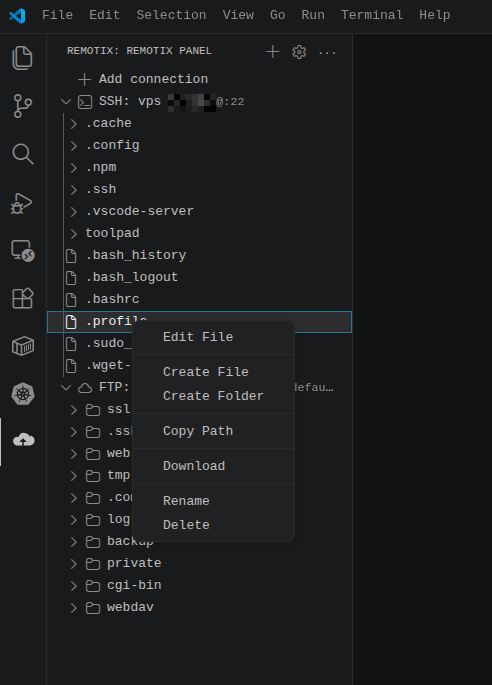
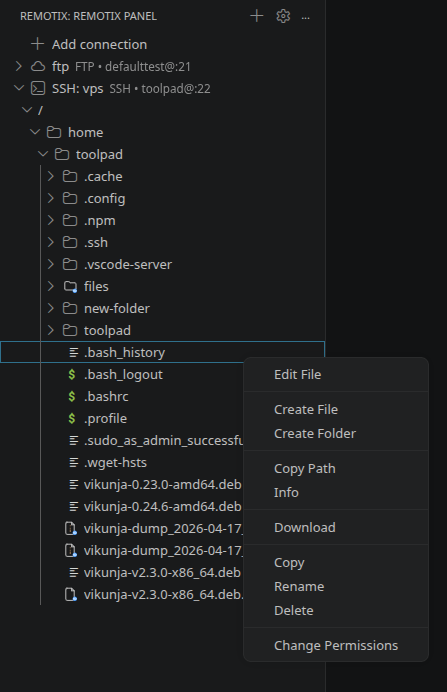
v1.3.0

diff --git a/README.md b/README.md
@@ -1,56 +1,187 @@
-# Remotix
+<div style="display: flex; flex-wrap: wrap; align-items: flex-start; gap: 24px;">
+<div style="flex: 1; min-width: 280px;">
 
-Remotix is a VS Code sidebar extension for working with remote servers over SSH and FTP without leaving the editor. You can manage connections, browse remote files, upload and download folders, edit files directly from VS Code, and open an SSH terminal from the same panel.
+# Remotix 🚀
 
-## Features
+**Remotix** is a powerful VS Code extension for managing remote servers via **SSH and FTP**, directly from the sidebar.
 
-- Manage SSH and FTP connections from a single sidebar view
-- Import saved hosts from SSH config and FileZilla
-- Add, edit, delete, refresh, and close connections
-- Browse remote directories and files in a tree view
-- Create files and folders on remote servers
-- Rename and delete remote files and folders
-- Upload files or whole folders to SSH and FTP targets
-- Download files or whole folders from SSH and FTP targets
-- Edit remote files directly in VS Code
-- Open an SSH terminal for SSH connections
-- Use English or Ukrainian UI language
-- Tune transfer concurrency in settings
+Control your infrastructure, edit files, and manage remote systems without leaving your editor.
 
-## How To Use
+[![Version](https://vsmarketplacebadges.dev/version/locky42.remotix-extension.svg)](https://marketplace.visualstudio.com/items?itemName=locky42.remotix-extension)
+[![Installs](https://vsmarketplacebadges.dev/installs/locky42.remotix-extension.svg)](https://marketplace.visualstudio.com/items?itemName=locky42.remotix-extension)
+[![Rating](https://vsmarketplacebadges.dev/rating/locky42.remotix-extension.svg)](https://marketplace.visualstudio.com/items?itemName=locky42.remotix-extension)
+[![Release](https://img.shields.io/github/v/release/locky42/remotix?style=flat-square)](https://github.com/locky42/remotix/releases/latest)
+[![License](https://img.shields.io/github/license/locky42/remotix?style=flat-square)](https://github.com/locky42/remotix/blob/main/LICENSE)
 
-1. Open the Remotix view from the Activity Bar.
-2. Click `Add Connection` or use `More Actions` to import existing hosts.
-3. Expand a connection to browse remote files and folders.
-4. Use the context menu or inline actions to upload, download, edit, rename, create, refresh, or delete items.
-5. For SSH connections, open a terminal directly from the same tree item.
+---
 
-## Settings
+## 🔥 What's New in v1.3.0
 
-Remotix currently exposes these settings:
+- **🛡 Secret Storage Migration**: Industry-standard encryption for your passwords.
+- **↕ Manual Connection Sorting**: Reorder servers via drag-and-drop.
+- **🔐 Permission Management (chmod)**: Full control over file/folder permissions.
+- **📄 Properties Dialog**: View detailed metadata (owner, group, timestamps).
+- **🔑 Password Access**: Securely view or copy stored credentials from the UI.
 
-- `remotix.language`: UI language selection (`auto`, `en`, `uk`)
-- `remotix.ftpDownloadConcurrency`: concurrent FTP download workers
-- `remotix.ftpUploadConcurrency`: concurrent FTP upload workers
-- `remotix.sshDownloadConcurrency`: concurrent SSH download workers
-- `remotix.sshUploadConcurrency`: concurrent SSH upload workers
+</div>
+<div style="flex: 1; min-width: 280px; text-align: center;">
+<img src="media/screenshots/demo.gif" width="420" alt="Remotix Demo" />
+</div>
+</div>
 
-## Screenshots
+---
 
-Current screenshots from `media/screenshots`:
+## 🔒 Security
 
-![Panel overview](media/screenshots/panel-overview.png)
+Remotix has undergone a major security overhaul in **v1.3.0** to ensure your credentials are handled with professional-grade protection. We have fully migrated to the **VS Code Secret Storage API**.
 
-Connection list and Remotix panel entry point.
+### 🛡 OS-Level Encryption
+Your passwords are no longer stored in plain-text config files. Instead, they are encrypted and kept in your system's native secure vault:
+- **macOS:** Keychain Access
+- **Windows:** Credential Manager
+- **Linux:** Secret Service (via libsecret)
 
-![Context menu actions](media/screenshots/context-menu.png)
+### 🔄 Automatic Migration
+The transition is seamless. Upon updating, Remotix will **automatically move** your existing passwords to the secure storage the first time you connect to each server. No manual re-entry or reconfiguration is required.
 
-File and folder actions from the tree context menu.
+### 🔐 Controlled Access
+Only the extension itself can securely retrieve these secrets when establishing a connection, and you can securely view or copy your stored passwords directly from the UI if needed.
 
-![Remote file in editor](media/screenshots/edit-file.png)
+---
 
-Remote file opened directly in VS Code.
+## ✨ Key Features
 
-## License
+- **♾ Unlimited Sessions** — Open and work with multiple SSH and FTP connections simultaneously.
+- **📂 Flexible Scope** — Save connections **Globally** or keep them **Project-specific** (tied to your workspace).
+- **🛡 Secure Storage** — Full migration to VS Code Secret Storage API (no more plain-text passwords).
+- **↕ Manual Sorting** — Organize your servers exactly how you want via drag-and-drop.
+- **✏ Live Editing** — Edit remote files with instant synchronization on save.
+- **🖥 Integrated Terminal** — Quick access to SSH terminal sessions directly from the sidebar.
+- **🔐 Permission Control** — Manage `chmod` and view file metadata/properties in a clean dialog.
+- **📥 One-Click Import** — Seamlessly migrate hosts from `~/.ssh/config` and FileZilla.
+- **🌍 Multi-language** — Full native support for English and Ukrainian.
 
-MIT
+---
+
+## 💎 Why Remotix?
+
+* **🚀 Unified Workflow** — Stop switching between external apps like FileZilla or WinSCP. Browse, edit, and manage your remote infrastructure without ever leaving your editor tabs.
+* **🛡 Invisible Security** — Your credentials are safe. By leveraging the **VS Code Secret Storage API**, Remotix keeps your passwords in your system's secure vault (Keychain/Credential Manager), never in plain-text configs.
+* **⚡ Native Performance** — Built specifically for VS Code. Experience smooth tree rendering, smart breadcrumbs, and multi-threaded transfers that scale with your hardware.
+* **📂 Full File Control** — Go beyond simple uploads. Manage **permissions (chmod)**, view detailed **metadata**, and use a built-in **SSH terminal** for advanced tasks.
+* **📥 Instant Onboarding** — Don't start from scratch. Import your entire server list from `~/.ssh/config` or your existing **FileZilla** profiles in one click.
+* **🏗 Scalable Infrastructure** — Manage complex environments easily. Keep your project-specific servers tied to their repositories while having your main dev servers accessible globally.
+* **⚡ True Multi-tasking** — Remotix doesn't limit you to one active session. Monitor logs on one server while editing files on another and uploading assets to a third — all at the same time.
+
+---
+
+## 🧭 How to Use
+
+1. **Open Remotix**: Click the Remotix icon in the VS Code Activity Bar (sidebar).
+2. **Add Connections**: Click **"Add Connection"** or use the **"More Actions"** menu to import hosts from SSH config or FileZilla.
+   > **💡 Pro Tip:** You can choose to save each connection **Globally** (available in any VS Code window) or **Project-specific** (tied only to your current workspace).
+3. **Browse Files**: Expand any server in the list to explore remote directories in a familiar tree view.
+4. **Manage Items**: Use the context menu (right-click) to upload, download, edit, rename, or delete files and folders.
+5. **Open Terminal**: Launch a secure SSH terminal session directly from the server item in the list.
+6. **Customize**: Access extension settings via the **Gear Icon (⚙)** at the top of the panel.
+
+---
+
+## ⚙ Configuration
+
+Remotix is designed to be easily customized via the VS Code Settings UI.
+
+### 🛠 Quick Access
+You can open the settings page directly by clicking the **Gear Icon (⚙)** at the top of the Remotix sidebar panel.
+
+Alternatively:
+1. Press `Ctrl + ,` (or `Cmd + ,` on macOS).
+2. Search for `@ext:locky42.remotix-extension`.
+
+### 🎛 Available Options
+
+| Setting | Description | Default |
+| :--- | :--- | :--- |
+| **Language** | Choose between `auto`, `English`, or `Ukrainian` UI. | `auto` |
+| **FTP Concurrency** | Max parallel FTP file workers for faster transfers. | `3` |
+| **SSH Concurrency** | Max parallel SSH file workers per folder. | `3` |
+
+> [!TIP]
+> **Performance:** If you are working with a high-speed connection and many small files, try increasing the **Concurrency** values to `5` or `10` to significantly speed up uploads and downloads.
+
+---
+
+## 📸 Screenshots
+
+### 🖥 Panel & Operations
+<div style="display: flex; flex-wrap: wrap; gap: 24px; align-items: flex-start;">
+  <div style="flex: 1; min-width: 300px;">
+    <strong>Panel Overview</strong><br/>
+    Manage multiple connections in a unified sidebar. Use the <b>Gear Icon</b> for settings or <b>Drag-and-Drop</b> to reorder.
+    <img src="media/screenshots/panel-overview.png" width="100%" style="margin-top: 10px;">
+  </div>
+  <div style="flex: 1; min-width: 300px;">
+    <strong>File Operations</strong><br/>
+    Manage your remote file system with a native-feel context menu. Change <b>Permissions (chmod)</b> or view metadata.
+    <img src="media/screenshots/context-menu.png" width="100%" style="margin-top: 10px;">
+  </div>
+</div>
+
+---
+
+### ✏ Remote File Editing
+Open remote files directly in VS Code with syntax highlighting and instant sync on save. Treat your remote server as a local workspace.
+<p align="center">
+  <img src="media/screenshots/edit-file.png" width="100%" alt="Remote File Editing">
+</p>
+
+---
+
+### 🖥 Integrated SSH Terminal
+Launch secure terminal sessions with one click. Execute commands and monitor your server without switching to an external terminal.
+<p align="center">
+  <img src="media/screenshots/terminal.png" width="100%" alt="SSH Terminal">
+</p>
+
+---
+
+### 📄 Detailed Metadata
+The **Properties Dialog** gives you full visibility into remote file attributes, including ownership, exact timestamps, and UID/GID.
+<p align="center">
+  <img src="media/screenshots/info-dialog.png" width="100%" alt="File Info Dialog">
+</p>
+
+---
+
+### ⚙ Deep Customization
+Fine-tune your experience via VS Code settings. Adjust concurrency for faster transfers or change UI language.
+<p align="center">
+  <img src="media/screenshots/settings.png" width="100%" alt="Extension Settings">
+</p>
+
+---
+
+## 📖 The Story Behind Remotix
+
+**Remotix was born out of pure frustration.**
+
+While working on **Linux Mint**, I found that existing FTP/SSH clients were either clunky, unstable, or simply felt like they belonged in the early 2000s. I didn't want a heavy standalone app like FileZilla — I wanted a tool that treats remote servers with the same respect as local folders, right inside my editor.
+
+### The Evolution
+What started as a practical replacement for unstable tools has grown into a professional workflow. The mission was to create something that **just works** — no crashes during large transfers, no fragmented UI, just a clean integration with VS Code.
+
+With the **v1.3.0 release**, Remotix has reached a new level of maturity. By migrating from plain-text configurations to the **VS Code Secret Storage API**, the project has evolved from a personal helper into a robust, secure extension built for professional environments.
+
+Remotix is my daily driver, and I’m committed to keeping it the most straightforward and secure way to manage your servers.
+
+---
+
+## 📝 License
+
+MIT License — free to use, modify, and distribute.
+
+---
+
+## 🚀 Summary
+
+Remotix brings fast, secure, and seamless remote server management directly into VS Code — without leaving your editor.

diff --git a/CHANGELOG.md b/CHANGELOG.md
@@ -2,6 +2,25 @@
 
 All notable changes to this project will be documented in this file.
 
+## [1.3.0] - 2026-04-28
+
+### Added
+
+- Manual drag-and-drop sorting for connections in the list.
+- File/folder properties dialog (info window).
+- Change permissions (chmod) for SSH/FTP, including recursive mode.
+- Permission icons for SSH.
+- View and copy connection password.
+
+### Changed
+
+- Connection passwords are now migrated to Secret Storage for improved security.
+
+### Fixed
+
+- Tree refresh after FileZilla import.
+- Duplicate connection detection and prevention during import.
+
 ## [1.2.0] - 2026-04-27
 
 ### Changed
